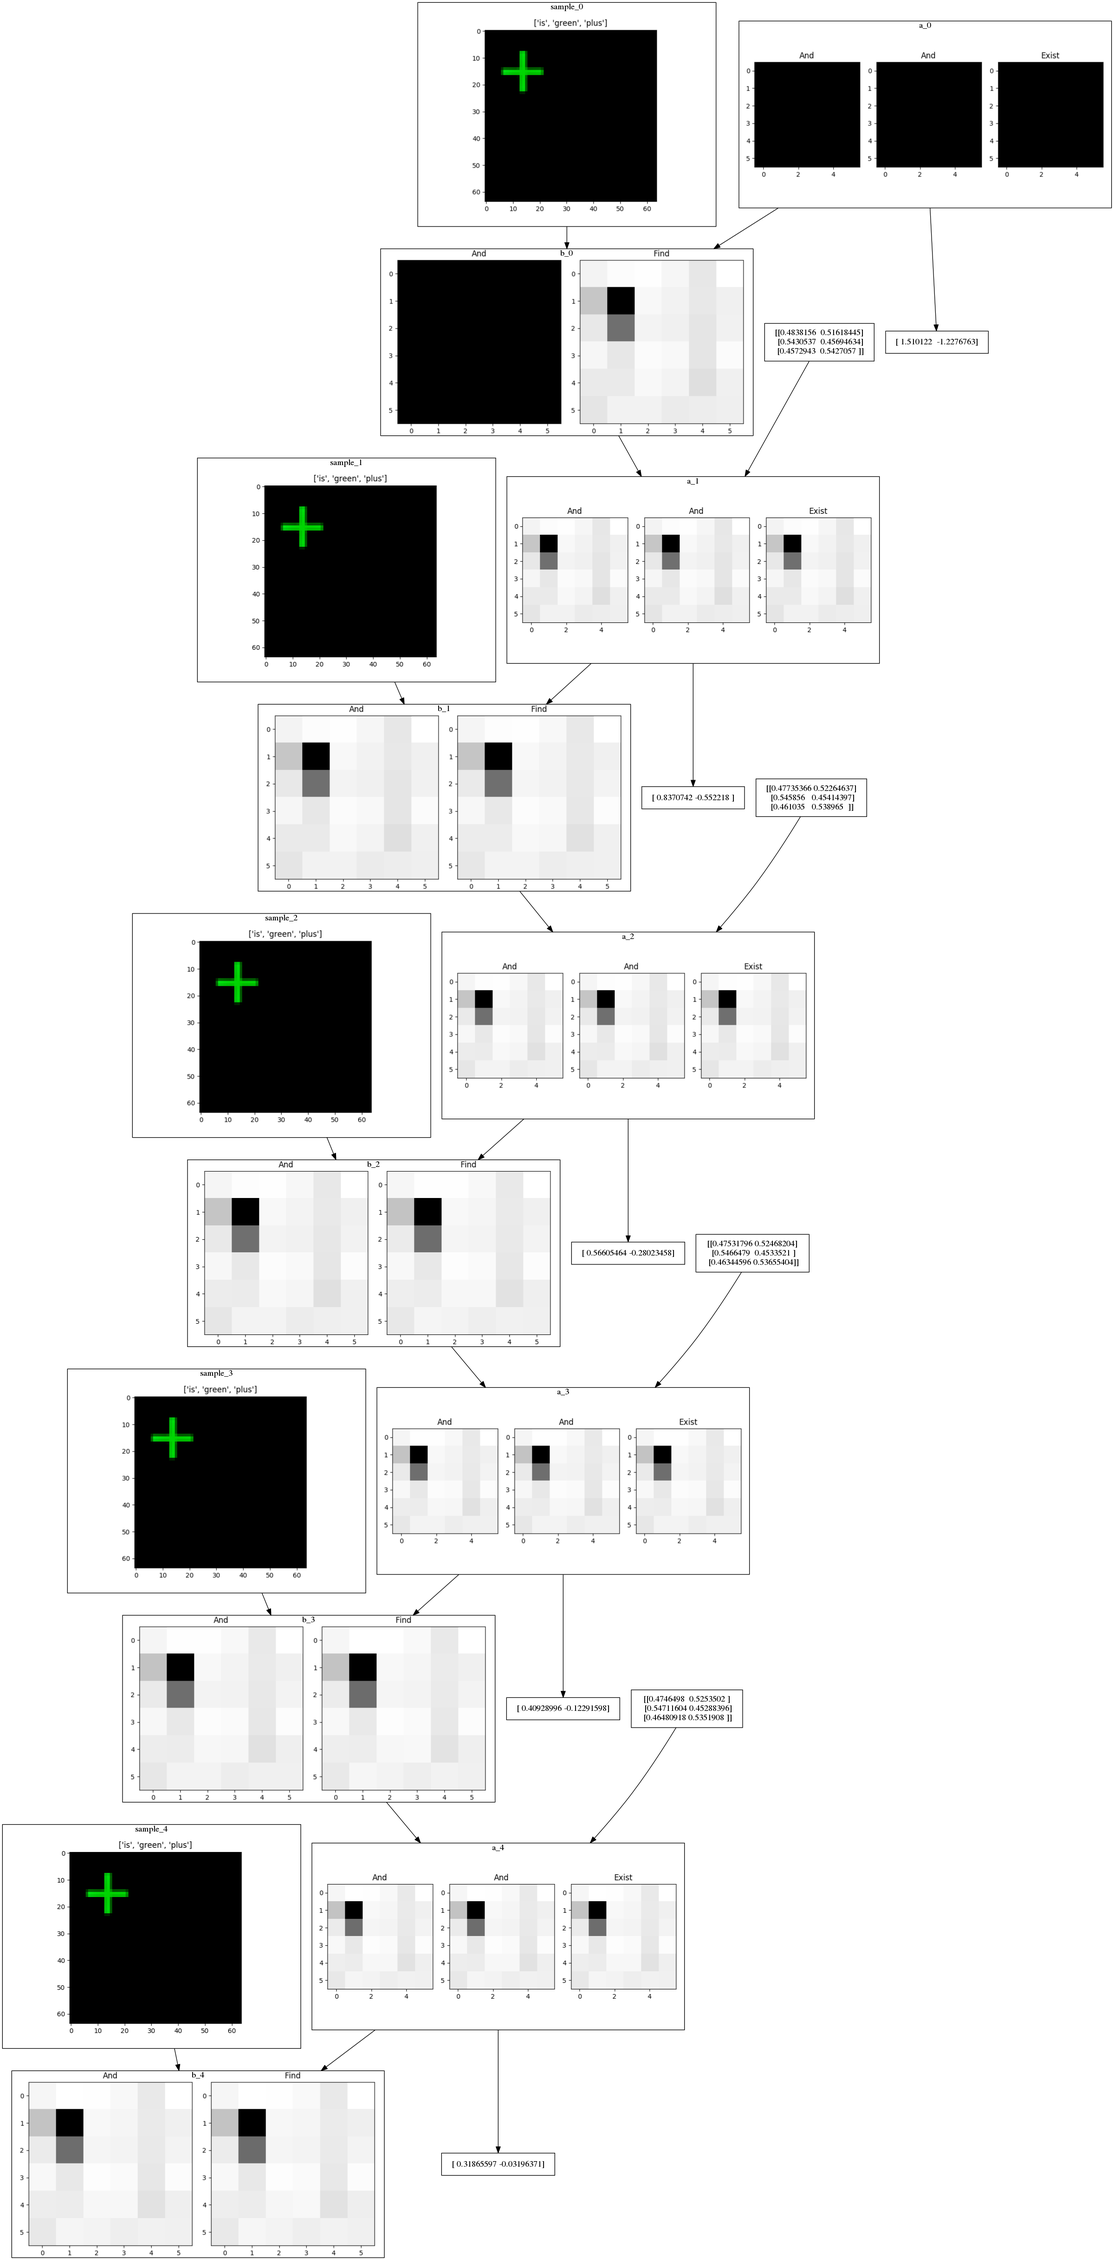
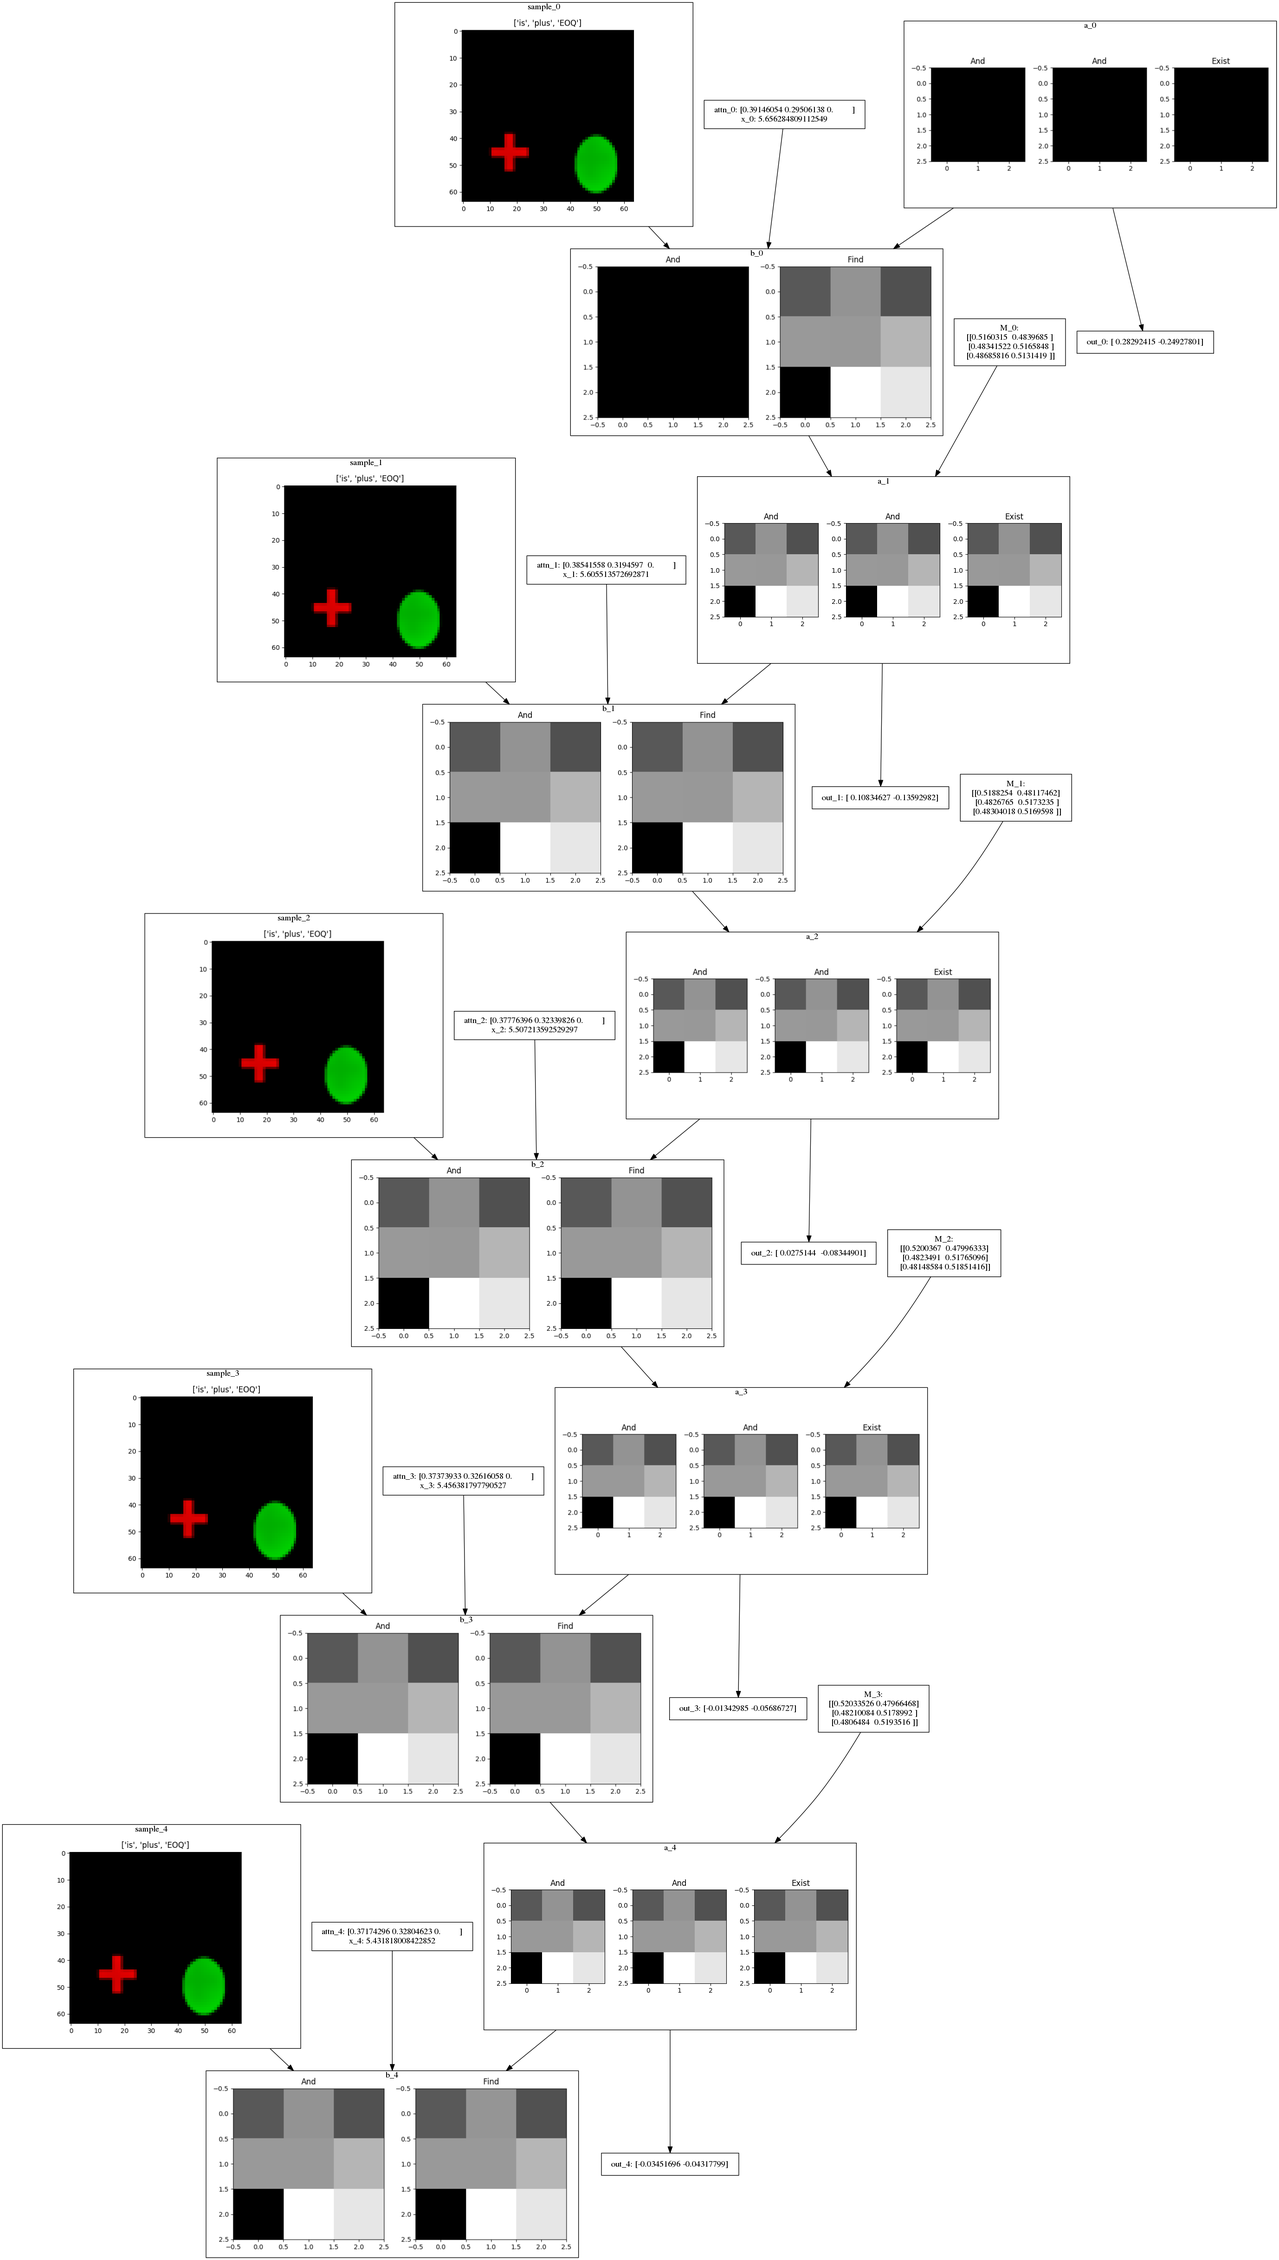
Refactored a bunch of stuff, added more to visualizer, changed how attention works a bit, added masking to query attention, started work on shapes dataset loader.

diff --git a/rnmn.py b/rnmn.py
@@ -13,16 +13,17 @@ from encoders import QueryEncoder, ContextEncoder
 from decoders import Decoder
 
 class RNMN(nn.Module):
-  def __init__(self, query_lang, embed_dim, num_layers, map_dim, lstm_hidden_dim, text_dim, device, mt_norm=1, comp_length=5, comp_stop_type=1):
+  def __init__(self, query_lang, embed_dim, num_layers, map_dim, lstm_hidden_dim,
+                     device, mt_norm=1, comp_length=5, comp_stop_type=1):
     super(RNMN, self).__init__()
     self.device = device
     self.query_dim = query_lang.num_words
     self.embed_dim = embed_dim
     self.lstm_hidden_dim = lstm_hidden_dim
-    self.text_dim = text_dim
+    self.text_dim = 1
     self.num_layers = num_layers
     self.map_dim = map_dim
-    self.context_dim = [64, 6, 6]
+    self.context_dim = [64, 3, 3]
     self.comp_length = comp_length
     self.comp_stop_type = comp_stop_type
     self.max_query_len = query_lang.max_len
@@ -39,13 +40,14 @@ class RNMN(nn.Module):
     [module.to(self.device) for module in self.attention_modules + self.answer_modules]
 
     # Create query and context encoders
-    self.query_encoder = QueryEncoder(self.query_dim, self.embed_dim, self.lstm_hidden_dim, self.device, num_layers=self.num_layers, max_query_len=self.max_query_len)
-    self.query_combine = nn.Linear(self.max_query_len*self.embed_dim, self.text_dim)
+    self.query_encoder = QueryEncoder(self.query_dim, self.embed_dim, self.lstm_hidden_dim, self.device,
+                                      num_layers=self.num_layers, max_query_len=self.max_query_len)
     self.context_encoder = ContextEncoder()
 
     # Create decoder
     self.M_dim = (self.num_att_modules, sum([m.num_attention_maps for m in self.attention_modules + self.answer_modules]))
-    self.decoder = Decoder(self.max_query_len, self.lstm_hidden_dim, self.M_dim, self.device, num_layers=self.num_layers, mt_norm=mt_norm)
+    self.decoder = Decoder(self.max_query_len, self.lstm_hidden_dim, self.M_dim,
+                           self.device, num_layers=self.num_layers, mt_norm=mt_norm)
 
     # Create visualizer
     self.visualizer = Visualizer(self.query_lang, self.attention_modules, self.answer_modules, self.comp_length)
@@ -54,41 +56,41 @@ class RNMN(nn.Module):
     batch_size = query.size(0)
 
     # Encode the query and context
-    embedded_query, encoded_query, query_hidden = self._encodeQuery(query, query_len, debug=debug)
+    self.query_encoder.resetHidden(batch_size)
+    embedded_query, encoded_query, self.decoder.hidden = self.query_encoder(query, query_len)
     encoded_context = self.context_encoder(context)
 
     # Loop over timesteps using modules until a threshold is met
-    self.decoder.hidden = query_hidden
-    self.a_t = torch.zeros((batch_size, self.M_dim[1], self.context_dim[1], self.context_dim[2]), requires_grad=True, device=self.device)
-    self.M_t = torch.zeros((batch_size, self.M_dim[0], self.M_dim[1]), requires_grad=True, device=self.device)
+    a_t = torch.zeros((batch_size, self.M_dim[1], self.context_dim[1], self.context_dim[2]), device=self.device)
+    M_t = torch.zeros((batch_size, self.M_dim[0], self.M_dim[1]), device=self.device)
 
-    self.stop_mask = torch.zeros((batch_size, self.comp_length), device=self.device)
-    self.outs = torch.zeros((batch_size, self.comp_length, 2), device=self.device)
+    stop_mask = torch.zeros((batch_size, self.comp_length), device=self.device)
+    outs = torch.zeros((batch_size, self.comp_length, 2), device=self.device)
 
     for t in range(self.comp_length):
       if debug: ipdb.set_trace()
-      self.M_t, attn, stop_bits = self.decoder(self.M_t.view(batch_size, self.M_dim[0]*self.M_dim[1], 1).permute(2,0,1), encoded_query, debug=debug)
-      self.x_t = self.query_combine(torch.einsum('dbe,ebn->ben', attn, embedded_query).view(batch_size, -1))
-      b_t, a_tp1, out = self.forward_1t(encoded_context, debug=debug)
+      M_t, attn, stop_bits = self.decoder(M_t.view(batch_size, self.M_dim[0]*self.M_dim[1], 1).permute(2,0,1), encoded_query, query_len, debug=debug)
+      x_t = torch.einsum('dbe,ebn->bd', attn, embedded_query)
+      b_t, a_tp1, out = self.forward_1t(encoded_context, a_t, M_t, x_t, debug=debug)
 
       if vis:
-        self.visualizer.visualizeTimestep(t, context, query, self.a_t, self.M_t, b_t, out)
+        self.visualizer.visualizeTimestep(t, context, query, attn, x_t, a_t, M_t, b_t, out)
 
       if (self.comp_stop_type == 1):
-        self.stop_mask[:,t] = stop_bits.squeeze(1)
-        self.outs[:,t,:] = out
+        stop_mask[:,t] = stop_bits.squeeze(1)
+        outs[:,t,:] = out
 
-      self.a_t = copy.copy(a_tp1)
+      a_t = copy.copy(a_tp1)
 
     if (self.comp_stop_type == 1):
-      self.stop_mask = F.softmax(self.stop_mask,dim = 1)
-      out = torch.einsum('bt,bti->bi',self.stop_mask,self.outs)
+      stop_mask = F.softmax(stop_mask, dim=1)
+      out = torch.einsum('bt,bti->bi', stop_mask, outs)
 
     if debug: ipdb.set_trace()
     if vis: self.visualizer.saveGraph()
     return F.log_softmax(out, dim=1)
 
-  def forward_1t(self, encoded_context, debug=False):
+  def forward_1t(self, encoded_context, a_t, M_t, x_t, debug=False):
     batch_size = encoded_context.size(0)
     b_t = torch.zeros((batch_size, self.num_att_modules, self.context_dim[1], self.context_dim[2]), device=self.device)
 
@@ -99,7 +101,7 @@ class RNMN(nn.Module):
 
     # Run all attention modules saving output
     for i, module in enumerate(self.attention_modules + self.answer_modules):
-      attention = self.a_t[:,np.arange(attention_map_input_index[i],attention_map_input_index[i+1])]
+      attention = a_t[:,np.arange(attention_map_input_index[i],attention_map_input_index[i+1])]
       if type(module) is Id:
         b_t[:,i] = module.forward(attention.squeeze())
       elif type(module) is And:
@@ -107,29 +109,19 @@ class RNMN(nn.Module):
       elif type(module) is Or:
         b_t[:,i] = module.forward(attention)
       elif type(module) is Find:
-        b_t[:,i] = module.forward(encoded_context, self.x_t).squeeze(1)
+        b_t[:,i] = module.forward(encoded_context, x_t).squeeze(1)
       elif type(module) is Relocate:
-        b_t[:,i] = module.forward(attention, encoded_context, self.x_t).squeeze(1)
+        b_t[:,i] = module.forward(attention, encoded_context, x_t).squeeze(1)
       elif type(module) is Exist:
         out = module.forward(attention)
       else:
         raise ValueError('Invalid Module: {}'.format(type(module)))
 
     if debug: ipdb.set_trace()
-    a_tp1 = torch.einsum('bkij,bkl->blij', b_t, self.M_t)
+    a_tp1 = torch.einsum('bkij,bkl->blij', b_t, M_t)
     return b_t, a_tp1, out
 
-  def _encodeQuery(self, query, query_len, debug=False):
-    batch_size = query.size(0)
-    max_query_len = query.size(1)
-    query_end_inds = query_len - 1
-
-    # Encode each word in the query
-    self.query_encoder.resetHidden(batch_size)
-    if debug: ipdb.set_trace()
-    embeded_query, outputs, (hidden_states, cell_states) = self.query_encoder(query, query_len)
-
-    return embeded_query, outputs, (hidden_states, cell_states)
+    return embeded_query, outputs, (hidden_)
 
   def saveModel(self, save_path):
     pass

diff --git a/dataset_loader.py b/dataset_loader.py
@@ -7,6 +7,7 @@ import torch.utils.data as data_utils
 
 DATASETS_PATH = os.path.join(os.path.dirname(os.path.realpath(__file__)), 'datasets')
 SCALABLE_SHAPES_PATH = os.path.join(DATASETS_PATH, 'scalable_shapes','data')
+SHAPES_PATH = os.path.join(DATASETS_PATH, 'shapes_dataset','data')
 
 class QueryLang(object):
   def __init__(self):
@@ -46,6 +47,75 @@ def createScalableShapesDataLoader(dataset, batch_size=64, rebalanced=True):
     labels = np.load(os.path.join(SCALABLE_SHAPES_PATH, dataset, 'labels.npy'))
     queries = np.load(os.path.join(SCALABLE_SHAPES_PATH, dataset, 'queries.npy'))
     samples = np.load(os.path.join(SCALABLE_SHAPES_PATH, dataset, 'samples.npy'))
+
+  # Image tensors for pyTorch are Batch X Channels X X_dim X Y_dim.
+  # NP images are currently Batch X X_dim X Y_dim X Channels
+  samples = np.transpose(samples,(0,3,1,2))
+  samples = (samples - samples.mean(axis=0)).astype(np.float32)
+
+  # Create the query language
+  query_lang = QueryLang()
+  encoded_queries = list()
+  query_lens = list()
+  max_len = 0
+  for query in queries:
+    query_lang.addQuery(query)
+    encoded_query = query_lang.encodeQuery(query)
+
+    max_len = max(max_len, len(encoded_query))
+    encoded_queries.append(encoded_query)
+    query_lens.append(len(encoded_query))
+
+  query_lang.max_len = max_len
+
+  # Pad encoded queries with EOQ tokens
+  queries = np.ones((len(query_lens), max_len), dtype=np.long) * query_lang.EOQ_token
+  query_lens = np.array(query_lens, dtype=np.long)
+  for i, q in enumerate(encoded_queries):
+    queries[i,:len(q)] = q
+
+  # Split the data into a train/test datasets
+  dataset_length = labels.shape[0]
+  indices = npr.permutation(dataset_length)
+  train_idx, test_idx = indices[:int(dataset_length*.8)], indices[int(dataset_length*.8):]
+
+  train_labels, train_samples = labels[train_idx],  samples[train_idx]
+  train_queries, train_query_lens = queries[train_idx], query_lens[train_idx]
+
+  test_labels, test_samples = labels[test_idx], samples[test_idx]
+  test_queries, test_query_lens = queries[test_idx], query_lens[test_idx]
+
+  # Load data into Torch tensors
+  train_labels, train_samples = convertNumpyToTorch(train_labels, train_samples)
+  train_queries, train_query_lens = convertNumpyToTorch(train_queries, train_query_lens)
+  train_queries, train_query_lens = train_queries.long(), train_query_lens.long()
+  train_samples = train_samples.float()
+
+  test_labels, test_samples = convertNumpyToTorch(test_labels, test_samples)
+  test_queries, test_query_lens = convertNumpyToTorch(test_queries, test_query_lens)
+  test_queries, test_query_lens = test_queries.long(), test_query_lens.long()
+  test_samples = test_samples.float()
+
+  # Load data into dataset loaders
+  train_dataset = data_utils.TensorDataset(train_samples, train_queries, train_query_lens, train_labels)
+  train_loader = data_utils.DataLoader(train_dataset, batch_size=batch_size, shuffle=True)
+
+  test_dataset = data_utils.TensorDataset(test_samples, test_queries, test_query_lens, test_labels)
+  test_loader = data_utils.DataLoader(test_dataset, batch_size=batch_size, shuffle=True)
+
+  return query_lang, train_loader, test_loader, max_len
+
+def createShapesDataLoader(dataset, batch_size=64):
+  # Load labels, queries, and samples as numpy arrays
+  train_labels = np.load(os.path.join(SCALABLE_SHAPES_PATH, dataset, 'train.large.output'))
+  train_queries = np.load(os.path.join(SCALABLE_SHAPES_PATH, dataset, 'train.large.query_str.txt'))
+  train_samples = np.load(os.path.join(SCALABLE_SHAPES_PATH, dataset, 'train.large.input.npy'))
+
+
+  test_labels = np.load(os.path.join(SCALABLE_SHAPES_PATH, dataset, 'test.output'))
+  test_queries = np.load(os.path.join(SCALABLE_SHAPES_PATH, dataset, 'test.query_str.txt'))
+  test_samples = np.load(os.path.join(SCALABLE_SHAPES_PATH, dataset, 'test.input.npy'))
+
 
   # Image tensors for pyTorch are Batch X Channels X X_dim X Y_dim.
   # NP images are currently Batch X X_dim X Y_dim X Channels

diff --git a/visualizer.py b/visualizer.py
@@ -22,7 +22,7 @@ class Visualizer(object):
     self.G.node_attr['margin'] = '0.22, 0.11'
     if not os.path.exists('vis_tmp'): os.mkdir('vis_tmp')
 
-  def visualizeTimestep(self, step, context, query, a_t, M_t, b_t, out):
+  def visualizeTimestep(self, step, context, query, attn_t, x_t, a_t, M_t, b_t, out):
     # Add sample/query node
     path = self._saveSample(step, context, query)
     self.G.add_node('sample_{}'.format(step), image=path)
@@ -37,13 +37,19 @@ class Visualizer(object):
     self.G.add_edge('a_{}'.format(step), 'b_{}'.format(step))
     self.G.add_edge('sample_{}'.format(step), 'b_{}'.format(step))
 
-    # Add composition matrix node
-    if step < self.comp_length - 1:
-      self.G.add_node('M_{}'.format(step), labelloc='m', label=M_t.cpu().numpy().transpose().squeeze())
+    # Add attn and text input nodes and edges
+    self.G.add_node('x_{}'.format(step), labelloc='m',
+                    label='attn_{}: {}\nx_{}: {}'.format(step, attn_t.cpu().numpy().squeeze(), step, x_t.cpu().numpy().squeeze()))
+    self.G.add_edge('x_{}'.format(step), 'b_{}'.format(step))
 
     # Add output node and edge
-    self.G.add_node('out_{}'.format(step), labelloc='m', label=out.cpu().numpy().squeeze())
+    self.G.add_node('out_{}'.format(step), labelloc='m', label='out_{}: {}'.format(step, out.cpu().numpy().squeeze()))
     self.G.add_edge('a_{}'.format(step), 'out_{}'.format(step))
+
+    # Add composition matrix node
+    if step < self.comp_length - 1:
+      self.G.add_node('M_{}'.format(step), labelloc='m', label='M_{}:\n{}'.format(step, M_t.cpu().numpy().transpose().squeeze()))
+
 
     # If not the first timestep connect input attention to past
     # compositional and output attention nodes
@@ -77,7 +83,7 @@ class Visualizer(object):
         axi.set_title(self.module_input_names[i])
       else:
         axi.set_title(self.module_output_names[i])
-      axi.imshow(a[0,i].cpu(), cmap='gray')
+      axi.imshow(a[0,i].cpu(), cmap='gray')#, vmin=0.0, vmax=1.0)
 
     # Save the figure to a temp file
     plt.tight_layout(True)

diff --git a/decoders.py b/decoders.py
@@ -16,27 +16,27 @@ class Decoder(nn.Module):
     self.input_dim = self.output_dim
     self.mt_norm = mt_norm
 
-    self.attn = nn.Linear(self.hidden_dim + self.input_dim, self.max_length)
+    self.attn1 = nn.Linear(self.input_dim, self.hidden_dim)
+    self.attn2 = nn.Linear(self.hidden_dim, self.max_length)
+    # self.attn = nn.Linear(self.hidden_dim + self.input_dim, self.max_length)
     self.attn_combine = nn.Linear(self.hidden_dim + self.input_dim, self.hidden_dim)
 
     self.dropout = nn.Dropout(dropout_prob)
     self.lstm = nn.LSTM(self.hidden_dim, self.hidden_dim, num_layers=self.num_layers)
-    self.fc1 = nn.Linear(self.hidden_dim, 128)
-    self.fc2 = nn.Linear(128, self.output_dim)
+    self.fc1 = nn.Linear(self.hidden_dim, self.output_dim)
 
-  def forward(self, prev_M, encoder_outputs, debug=False):
+  def forward(self, prev_M, encoder_outputs, query_len, debug=False):
     batch_size = prev_M.size(1)
     prev_M = self.dropout(prev_M)
 
-    attn_weights = F.softmax(self.attn(torch.cat((prev_M, self.hidden[0]), dim=2)), dim=2)
-    # TODO: Mask the padded parts out to 0.
-    # TODO: does this make any sort of sense whatsoever (it works?)
-    attn_applied = F.relu(torch.einsum('lbs,sbh->lbh', attn_weights, encoder_outputs))
+    mask = torch.arange(self.max_length, device=self.device).expand(len(query_len), self.max_length) < query_len.unsqueeze(1)
+    attn_weights = F.softmax(self.attn2(F.tanh(self.attn1(prev_M)) + self.hidden[0]), dim=2) * mask.float()
+    # attn_weights = F.softmax(self.attn(torch.cat((prev_M, self.hidden[0]), dim=2)), dim=2)
+    attn_applied = torch.einsum('lbs,sbh->lbh', attn_weights, encoder_outputs)
 
-    out = self.attn_combine(torch.cat((prev_M, attn_applied), dim=2))
+    out = F.relu(self.attn_combine(torch.cat((prev_M, attn_applied), dim=2)))
     out, self.hidden = self.lstm(F.relu(out), self.hidden)
-    out = F.relu(self.fc1(out[0]))
-    out = self.fc2(out)
+    out = self.fc1(out.view(batch_size, -1))
 
     M = out.view(batch_size, self.M_dim[0], self.M_dim[1])
 

diff --git a/experiments/simple_shapes.py b/experiments/simple_shapes.py
@@ -22,8 +22,8 @@ def train(config):
   query_lang, train_loader, test_loader, query_max_len = dataset_loader.createScalableShapesDataLoader(config.dataset, batch_size=config.batch_size)
 
   # Init model
-  model = RNMN(query_lang, config.embed_dim, config.num_layers, config.lstm_hidden_dim, config.map_dim,
-               config.text_dim, device, config.mt_norm, config.comp_length, config.comp_stop).to(device)
+  model = RNMN(query_lang, config.embed_dim, config.num_layers, config.lstm_hidden_dim,
+               config.map_dim, device, config.mt_norm, config.comp_length, config.comp_stop).to(device)
   if config.weight_decay == 0:
     optimizer = torch.optim.Adam(model.parameters(), lr=config.lr)
   else:
@@ -127,8 +127,6 @@ if __name__ == '__main__':
       help='Number of layers in the LSTMs in the query encoder/decoders')
   parser.add_argument('--map_dim', type=int, default=64,
       help='Number of kernels for mapping in the submodules')
-  parser.add_argument('--text_dim', type=int, default=1,
-      help='Number of kernels for text mapping')
   parser.add_argument('--batch_size', type=int, default=256,
       help='Minibatch size for data loaders')
   parser.add_argument('--seed', type=int, default=None,

diff --git a/modules.py b/modules.py
@@ -54,13 +54,14 @@ class Find(nn.Module):
     self.fc1 = nn.Linear(self.text_dim, self.map_dim)
     self.conv1 = nn.Conv2d(self.context_dim[0], self.map_dim, self.kernel_size)
     self.conv2 = nn.Conv2d(self.map_dim, 1, self.kernel_size)
+    self.sigmoid = nn.Sigmoid()
 
   def forward(self, context, text):
     batch_size = context.size(0)
-    text_mapped = self.fc1(text.view(batch_size, -1)).view(batch_size, self.map_dim, 1, 1)
-    context_mapped = self.conv1(context)
+    text_mapped = F.relu(self.fc1(text.view(batch_size, -1))).view(batch_size, self.map_dim, 1, 1)
+    context_mapped = F.relu(self.conv1(context))
     eltwise_mult = F.normalize(torch.einsum('bmxx,bmhw->bmhw', text_mapped, context_mapped), dim=1)
-    return self.conv2(eltwise_mult)
+    return self.sigmoid(self.conv2(eltwise_mult))
 
 class Relocate(nn.Module):
   def __init__(self, context_dim, map_dim=64, text_dim=256):

diff --git a/encoders.py b/encoders.py
@@ -38,7 +38,7 @@ class ContextEncoder(nn.Module):
 
     # Init two conv layers to extract features (64 kernels)
     self.conv1 = nn.Conv2d(3, 64, 10, stride=10)
-    self.conv2 = nn.Conv2d(64, 64, 1, stride=1)
+    self.conv2 = nn.Conv2d(64, 64, 2, stride=2)
 
   def forward(self, context):
     return F.relu(self.conv2(F.relu(self.conv1(context))))
